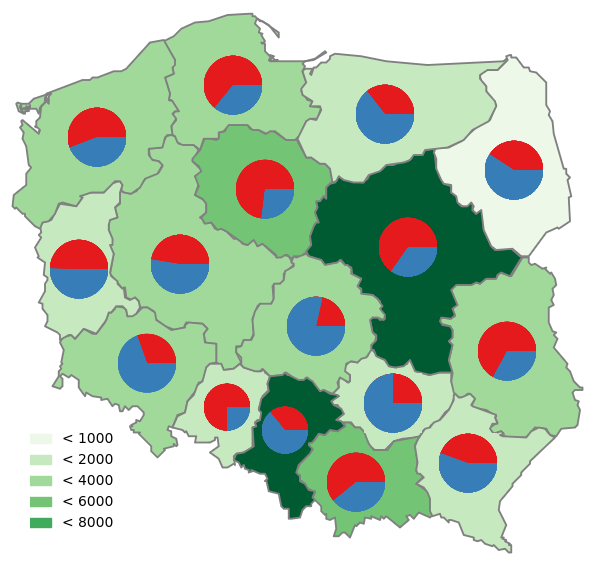
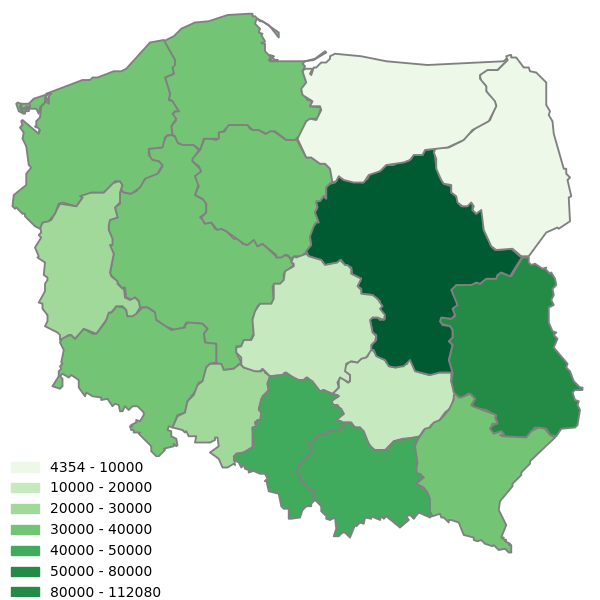
Update map legend

diff --git a/map_generator.py b/map_generator.py
@@ -1,4 +1,4 @@
-import pandas
+import numpy as np
 import folium
 import maps_colors_data.colors_database
 import os
@@ -21,13 +21,19 @@ class Map:
                 if " " in number:
                     temp = number.split(" ", 1)
                     final_number = "".join(temp)
-                    data[index] = float(final_number)
+                    try:
+                        data[index] = float(final_number)
+                    except ValueError:
+                        temp = final_number.split(" ", 1)
+                        final_number = "".join(temp)
+                        data[index] = float(final_number)
                 else:
                     data[index] = float(number)
         except TypeError:
             pass
 
         # ASSIGN VALUE WITH COLOR
+
         color = color.lower()
         if color == "green":
             color_data = maps_colors_data.colors_database.green
@@ -106,34 +112,53 @@ class Map:
         firefox_path = open("GecktodriverPath.txt")
         browser = webdriver.Firefox(executable_path=firefox_path.read())
         browser.get(tmpurl)
-        sleep(5)
         browser.save_screenshot(r'temp\map.png')
         browser.quit()
 
         # CUT IMAGE
         img = cv2.imread(r"temp\map.png")
-        map_cut = img[130:700, 500:1100]
+        map_cut = img[130:730, 500:1100]
         
         # CREATE MAP LEGEND
         map_key = []
-        interval_id = 0
-        fig = plt.figure(figsize=(2, 1.25))
-        for color, interval in zip(color_set, intervals):
-            if interval_id < (len(intervals) - 1):
-                key = str("< " + str(interval))
-                map_key.append(mpatches.Patch(color=color, label="< " + str(interval)))
+        minim = min(data)
+        maxim = max(data)
+        if minim > 0:
+            minim = int(minim)
+        if maxim > 0:
+            maxim = int(maxim)
+        fig = plt.figure(figsize=(2, 2))
+        for index, (color, interval) in enumerate(zip(color_set, intervals)):
+            if index < (len(intervals) - 1) and index != 0 and index != (len(intervals) - 1):
+                map_key.append(mpatches.Patch(color=color, label=str(intervals[index - 1]) + " - " + str(interval)))
+            elif index == 0:
+                map_key.append(mpatches.Patch(color=color, label=str(minim) + " - " + str(interval)))
             else:
-                key = str("> " + str(interval))
-                map_key.append(mpatches.Patch(color=color, label="> " + str(interval)))
-            interval_id += 1
+                map_key.append(mpatches.Patch(color=color, label=str(intervals[index - 1]) + " - " + str(interval)))
+                map_key.append(mpatches.Patch(color=color, label=str(interval) + " - " +  str(maxim)))
         plt.legend(handles=[color for color in map_key])
         plt.axis('off')
         plt.savefig(r"temp\legend.png")
 
         # ADD MAP LEGEND TO THE MAP
         original_legend = cv2.imread(r"temp\legend.png")
-        legend = original_legend[25:21 * (len(intervals) + 1), 75:170]
-        x_offset = 30
-        y_offset = 430
+        white = np.asarray([255, 255, 255])
+        print(white)
+        for pixel_x in range(original_legend.shape[1]):
+            print(pixel_x)
+            print(original_legend[60, pixel_x])
+            if not np.array_equal(original_legend[60, pixel_x], white):
+                x_start = pixel_x
+                break
+        for pixel_x in range(original_legend.shape[1] - 1, 0, -1):
+            print(pixel_x)
+            print(original_legend[60, pixel_x])
+            if not np.array_equal(original_legend[60, pixel_x], white):
+                x_end = pixel_x
+                break
+        print(x_end)
+        legend = original_legend[33:33 + (20 * (len(intervals) + 1)), x_start + 5:x_end - 5]
+        x_offset = 10
+        y_offset = 457
         map_cut[y_offset:y_offset + legend.shape[0], x_offset:x_offset + legend.shape[1]] = legend
         cv2.imwrite('final_map.png', map_cut)
